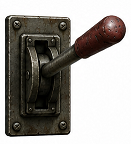
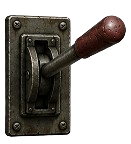
u2,u3,r9fix

diff --git a/src/scenes/Room9Scene.js b/src/scenes/Room9Scene.js
@@ -13,6 +13,7 @@ export default class Room9Scene extends BaseRoomScene {
     preload() {
         this.load.image("background_r9", "src/background/bg_r9.png");
         this.load.spritesheet("zombie_crawler", "src/assets/sucker.png", { frameWidth: 199, frameHeight: 282 });
+        this.load.image("palanca", "src/assets/ui/palanca.png");
     }
 
     create(data = {}) {
@@ -33,16 +34,22 @@ export default class Room9Scene extends BaseRoomScene {
         this.createWall(310, 350, 40, 150); // Pared Izquierda de la U
         this.createWall(490, 350, 40, 150); // Pared Derecha de la U
 
-        // --- 2. INTERRUPTORES ---
-        this.switches = this.physics.add.staticGroup();
+                // --- 2. INTERRUPTORES (PALANCAS) ---
+            this.switches = this.physics.add.staticGroup();
         [200, 400, 600].forEach((x, i) => {
-            // Si ya está resuelto, los pintamos de verde
-            const color = this.puzzleSolved ? 0x00ff00 : 0x555555;
-            let sw = this.add.rectangle(x, 85, 40, 40, color).setInteractive();
+            // Reemplazamos el rectangle por el sprite de palanca
+            let sw = this.add.sprite(x, 85, "palanca").setScale(0.3).setInteractive();
+            
+            // Si ya estaba resuelto (al volver a la sala), la dejamos verde
+            if (this.puzzleSolved) sw.setTint(0x00ff00);
+            
             sw.id = i + 1;
             this.switches.add(sw);
+            
+            // Mantenemos tu colisión original
             this.physics.add.overlap(this.player.sprite, sw, () => this.handleSwitch(sw));
         });
+
 
         // --- 3. PUERTA IZQUIERDA (Vuelta a r8) ---
         this.doorToR8 = this.add.rectangle(20, 300, 15, 100, 0x00ff00, 0.5);
@@ -73,21 +80,36 @@ export default class Room9Scene extends BaseRoomScene {
         }
     }
 
-    handleSwitch(sw) {
-        if (sw.isPressed || this.puzzleSolved) return;
-        sw.isPressed = true;
+handleSwitch(sw) {
+    if (this.puzzleSolved || sw.isPressed) return;
+    
+    sw.isPressed = true;
 
-        if (sw.id === this.sequence[this.puzzleStep]) {
-            sw.setFillStyle(0x00ff00);
-            this.puzzleStep++;
-            if (this.puzzleStep === this.sequence.length) this.resolverPuzzle();
-        } else {
-            this.mostrarCartel("Secuencia incorrecta. Reiniciando terminal...");
-            this.puzzleStep = 0;
-            this.switches.getChildren().forEach(s => { s.setFillStyle(0x555555); s.isPressed = false; });
+    if (sw.id === this.sequence[this.puzzleStep]) {
+        // ✅ CAMBIADO: setTint en lugar de setFillStyle para que no crashee
+        sw.setTint(0x00ff00); 
+        
+        this.puzzleStep++;
+        if (this.puzzleStep === this.sequence.length) {
+            this.resolverPuzzle();
         }
-        this.time.delayedCall(1000, () => { sw.isPressed = false; });
+    } else {
+        this.mostrarCartel("SECUENCIA INCORRECTA - REINICIANDO");
+        this.puzzleStep = 0;
+        
+        // Limpiamos todas las palancas
+        this.switches.getChildren().forEach(s => {
+            s.isPressed = false;
+            s.clearTint(); // ✅ CAMBIADO: clearTint en lugar de setFillStyle
+        });
     }
+
+    // Pequeño delay para que no se active 60 veces por segundo
+    this.time.delayedCall(1000, () => {
+        if (!this.puzzleSolved) sw.isPressed = false;
+    });
+}
+
 
     resolverPuzzle() {
         this.puzzleSolved = true;

diff --git a/src/scenes/U2Scene.js b/src/scenes/U2Scene.js
@@ -11,7 +11,6 @@ export default class U2Scene extends BaseRoomScene {
         // Fondo y assets
         this.load.image("background_u2", "src/background/bg_u2.png");
         this.load.image("backyard_key", "src/assets/ui/icon_backyard_key.png");
-        // Para la neblina usamos el mismo fondo o una mancha blanca (fog)
         this.load.image("fog_cloud", "src/background/bg_u2.png"); 
         
     }
